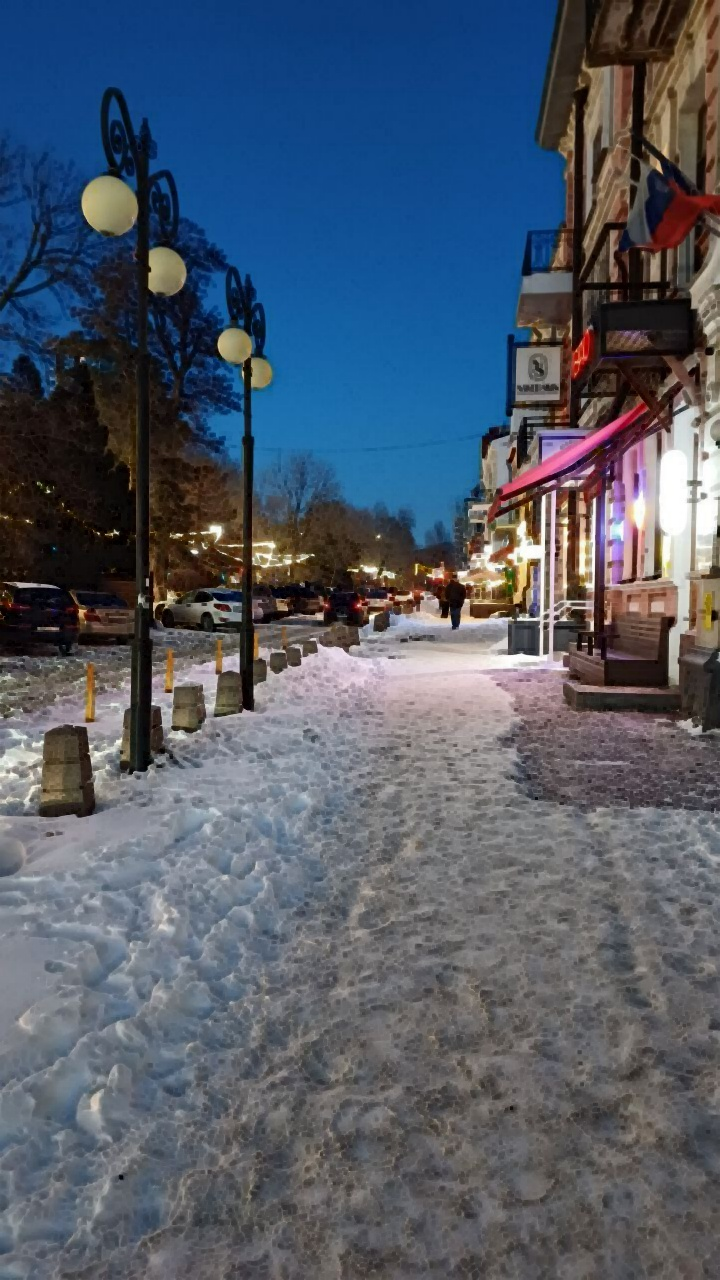
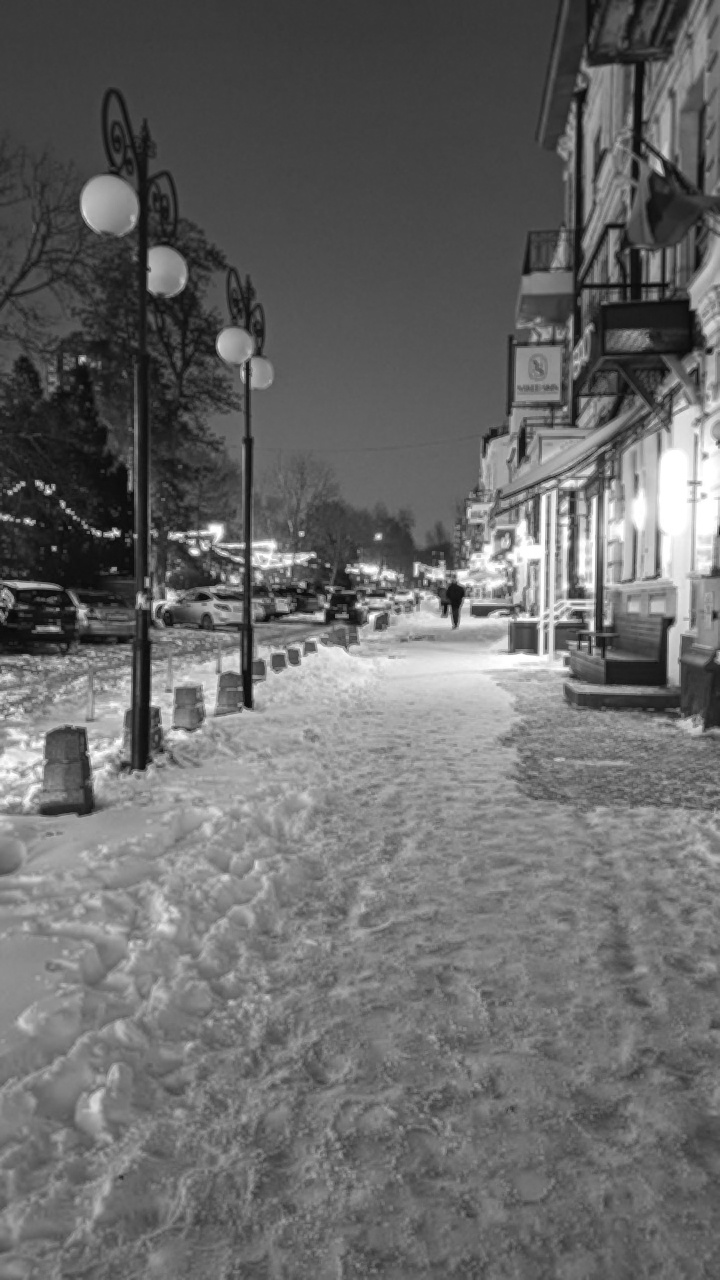
The methods 'midpointFilterSingleChannelImages' and 'midpointFilterThreeChannelsImages' were added

diff --git a/src/DIP.py b/src/DIP.py
@@ -146,6 +146,22 @@ def maxFilterThreeChannelsImages(img, kernelSize: int = 3, mode: str = 'edge'):
         res[:, :, i] = minFilterSingleChannelImages(img=img[:, :, i], kernelSize=kernelSize, mode=mode)
     return res
 
+def midpointFilterSingleChannelImages(img, kernelSize: int = 3, mode: str = 'edge'):
+    gap = kernelSize // 2
+    tmp = np.pad(array=img.astype('float64'), pad_width=gap, mode=mode)
+    space = np.lib.stride_tricks.sliding_window_view(tmp, window_shape=(kernelSize, kernelSize)) # for optimization
+    maxVals = np.max(space, axis=(2, 3))
+    minVals = np.min(space, axis=(2, 3))
+    res = (minVals + maxVals) / 2
+    return res.astype('uint8')
+
+def midpointFilterThreeChannelsImages(img, kernelSize: int = 3, mode: str = 'edge'):
+    h, w, c = img.shape
+    res = np.empty(shape=(h, w, c), dtype='uint8') # Using np.empty is better using np.zeroes because it doesn't use full memory
+    for i in range(c):
+        res[:, :, i] = midpointFilterSingleChannelImages(img=img[:, :, i], kernelSize=kernelSize, mode=mode)
+    return res
+
 
 def GaussianFilterSingleChannelImages(img, kernelSize: int = 3, sigma: float = 1, mode: str = 'edge'):
     res = np.empty(shape=img.shape, dtype=img.dtype)

diff --git a/src/program.py b/src/program.py
@@ -4,9 +4,10 @@ import numpy as np
 import DIP
 
 def main() -> None:
-    img = cv2.imread('imgs/income.jpg')
+    img = cv2.imread('imgs/income.jpg', cv2.IMREAD_GRAYSCALE)
+    img = DIP.addGaussianNoise(img, a=5,sigma=1)
     cv2.imwrite('imgs/temp.jpg', img) 
-    res = DIP.maxFilterThreeChannelsImages(img)
+    res = DIP.midpointFilterSingleChannelImages(img)
     cv2.imwrite('imgs/outcome.jpg', res) 
     print('Hello, world!')
     
